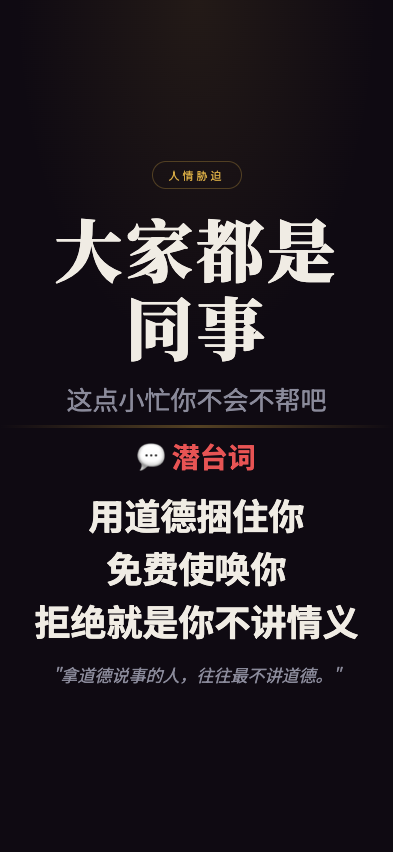
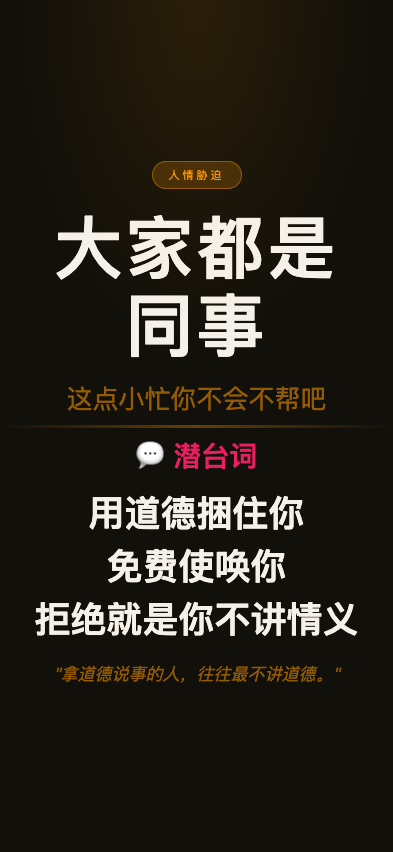
feat: 职场生存法则 screenshot - dajiadoumeiyijianduiba

Changed region(s): [[0.0916, 0.5798, 0.916, 0.8239], [0.1221, 0.1831, 0.855, 0.5493]]

diff --git a/wuliao-tools/tools/biz-speak/scenes/dajiadoushitongshi.html b/wuliao-tools/tools/biz-speak/scenes/dajiadoushitongshi.html
@@ -7,11 +7,14 @@
 <link href="https://fonts.googleapis.com/css2?family=Noto+Serif+SC:wght@400;700;900&family=Noto+Sans+SC:wght@300;400;700&display=swap" rel="stylesheet">
 <style>
   :root {
-    --bg: #0f0a12;
-    --text: #f0ece4;
-    --text-dim: #8a8a9a;
-    --gold: #d4a843;
-    --red: #e85454;
+    --bg: #12100a;
+    --text: #f5f0e8;
+    --text-dim: rgba(255,152,0,0.55);
+    --gold: #ff9800;
+    --red: #e91e63;
+    --tag-bg: rgba(255,152,0,0.2);
+    --tag-border: rgba(255,152,0,0.4);
+    --tag-text: #ff9800;
   }
   * { margin:0; padding:0; box-sizing:border-box; }
   html, body { width:100%; height:100%; overflow:hidden; }
@@ -24,11 +27,11 @@
   }
   body::before {
     content:''; position:absolute; top:0; left:0; right:0; height:45%;
-    background:radial-gradient(ellipse at 50% 0%, rgba(212,168,67,0.1) 0%, transparent 65%);
+    background:radial-gradient(ellipse at 50% 0%, rgba(255,152,0,0.1) 0%, transparent 65%);
     pointer-events:none; z-index:0;
   }
   .top { flex:1; display:flex; flex-direction:column; align-items:center; justify-content:flex-end; padding:4px 28px 8px; position:relative; z-index:1; }
-  .tag { font-size:11px; letter-spacing:3px; color:var(--gold); border:1px solid rgba(212,168,67,0.3); padding:5px 16px; border-radius:50px; margin-bottom:20px; }
+  .tag { font-size:11px; letter-spacing:3px; color:var(--tag-text); background:var(--tag-bg); border:1px solid var(--tag-border); padding:5px 16px; border-radius:50px; margin-bottom:20px; }
   .main-title { font-family:'Noto Serif SC'; font-size:68px; font-weight:900; text-align:center; line-height:1.15; letter-spacing:3px; min-width:0; overflow-wrap:break-word; max-width:92%; }
   .sub-title { font-size:26px; color:var(--text-dim); text-align:center; margin-top:14px; }
   .divider { width:100%; height:3px; background:linear-gradient(90deg,transparent,var(--gold),transparent); opacity:0.35; flex-shrink:0; position:relative; z-index:1; }
@@ -49,9 +52,7 @@
   <div class="bottom">
     <div class="truth-label">💬 潜台词</div>
     <div class="truth-lines">
-      <div class="truth-line">用道德捆住你</div>
-      <div class="truth-line">免费使唤你</div>
-      <div class="truth-line">拒绝就是你不讲情义</div>
+      <div class="truth-line">用道德捆住你</div><div class="truth-line">免费使唤你</div><div class="truth-line">拒绝就是你不讲情义</div>
     </div>
     <div class="quote">"拿道德说事的人，往往最不讲道德。"</div>
   </div>
